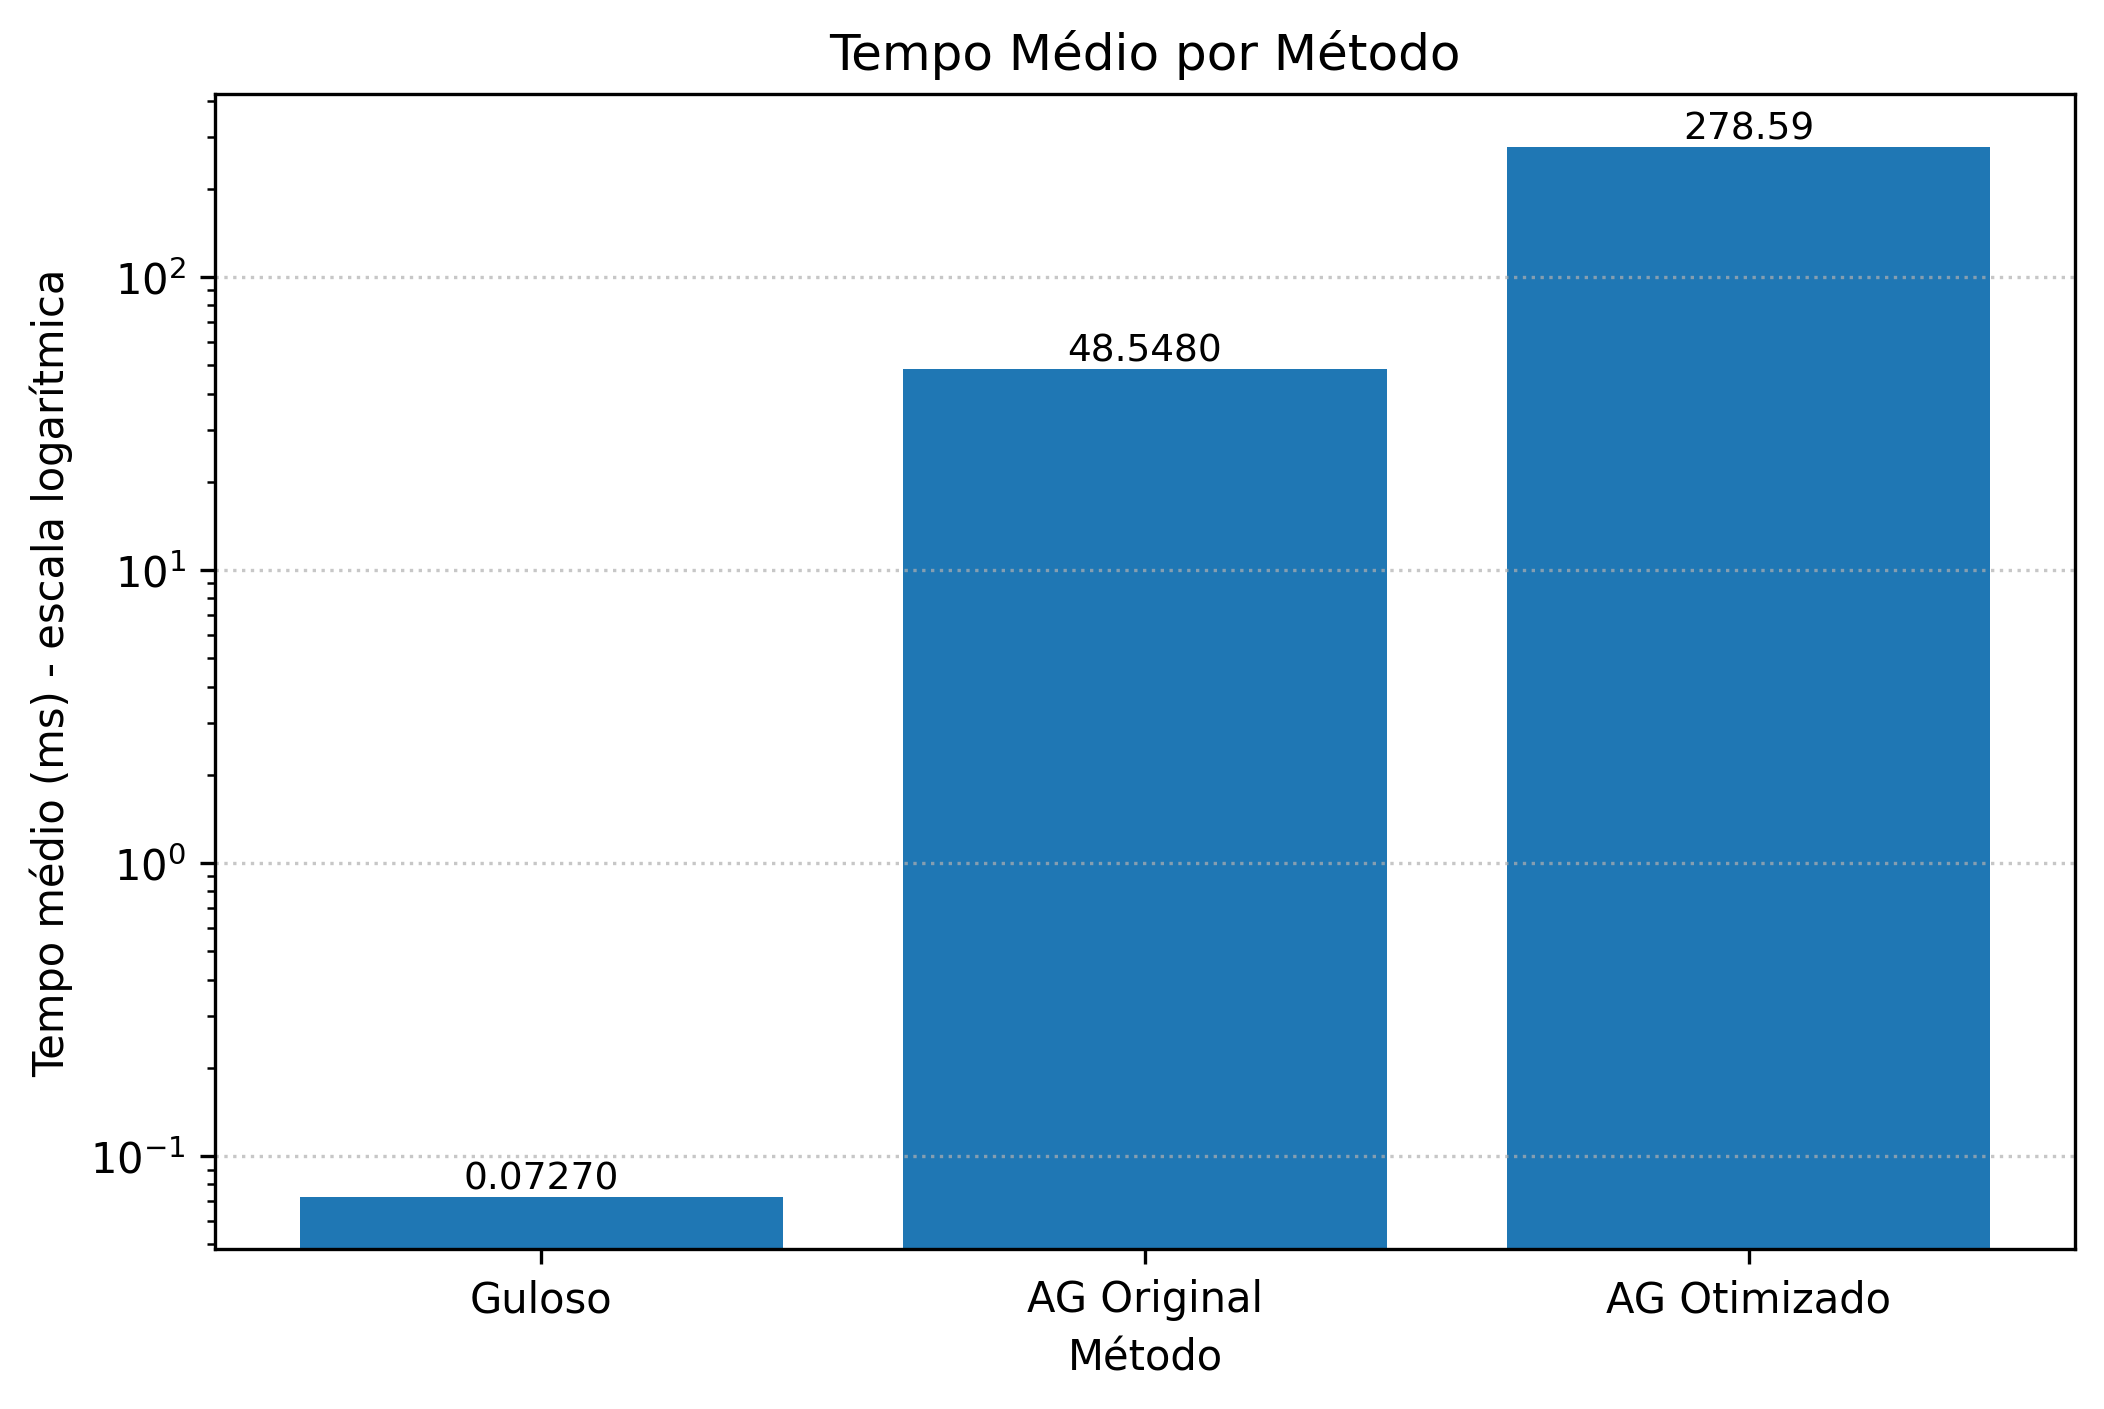
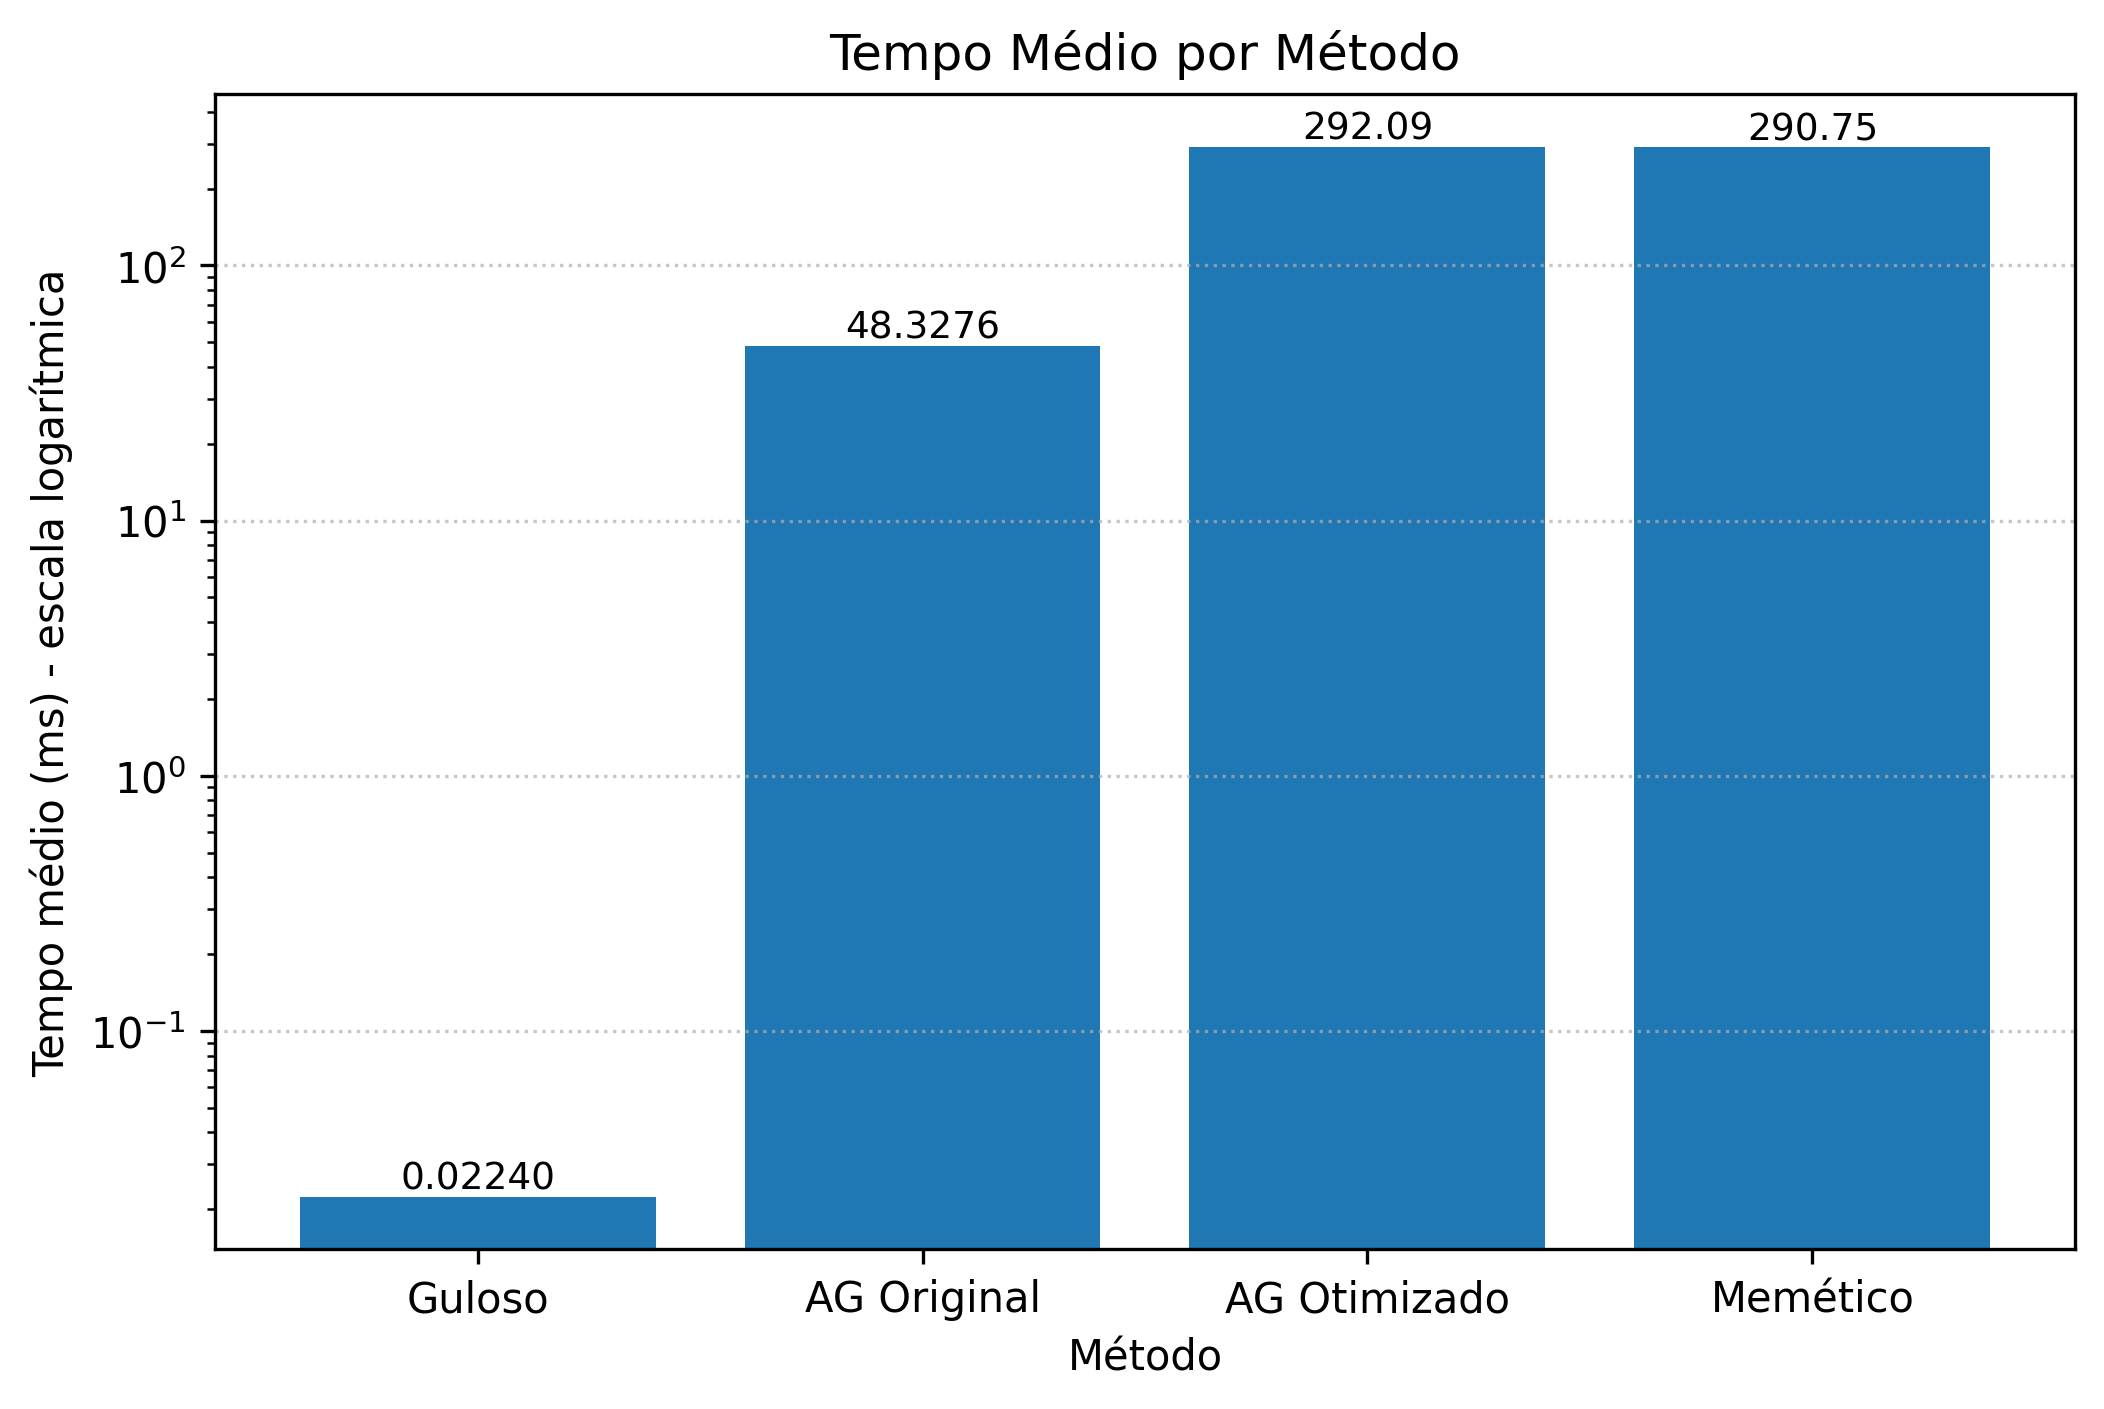
Adiciona algoritmo memetico e atualiza resultados comparativos

diff --git a/src/mochila_ic236ep/memetic.py b/src/mochila_ic236ep/memetic.py
@@ -1,0 +1,101 @@
+from typing import Dict, List, Tuple
+
+from src.mochila_ic236ep.heuristics import heuristica_gulosa
+from src.mochila_ic236ep.metaheuristics import AlgoritmoGenetico
+from src.mochila_ic236ep.models import InstanciaMochila
+
+
+class AlgoritmoMemetico(AlgoritmoGenetico):
+    """
+    Algoritmo Memético para o Problema da Mochila 0-1.
+
+    Esta abordagem combina a Heurística Gulosa com o Algoritmo Genético.
+    A solução gerada pelo guloso é inserida como um indivíduo inicial forte
+    dentro da população inicial do AG.
+    """
+
+    def __init__(
+        self,
+        instancia: InstanciaMochila,
+        tam_populacao: int = 110,
+        geracoes: int = 250,
+        tx_mutacao: float = 0.04912570414720041,
+        tx_crossover: float = 0.8185280449452739,
+        torneio_k: int = 6,
+    ):
+        super().__init__(
+            instancia=instancia,
+            tam_populacao=tam_populacao,
+            geracoes=geracoes,
+            tx_mutacao=tx_mutacao,
+            tx_crossover=tx_crossover,
+            torneio_k=torneio_k,
+        )
+
+    def gerar_populacao_inicial(self) -> List[List[int]]:
+        """
+        Cria a população inicial do Algoritmo Memético.
+
+        O primeiro indivíduo é a solução da Heurística Gulosa.
+        Os demais indivíduos são gerados aleatoriamente.
+        """
+        solucao_gulosa, _, _ = heuristica_gulosa(self.instancia)
+
+        populacao = [solucao_gulosa[:]]
+
+        while len(populacao) < self.tam_populacao:
+            populacao.append(self.criar_individuo())
+
+        return populacao
+
+    def executar(self) -> Tuple[List[int], float, float, Dict[str, List[float]]]:
+        """
+        Executa o Algoritmo Memético.
+
+        Mantém a mesma estrutura de retorno do Algoritmo Genético:
+        solução, valor, peso e histórico.
+        """
+        populacao = self.gerar_populacao_inicial()
+
+        melhor_individuo = None
+        melhor_fitness = -1
+        melhor_peso = 0
+
+        historico = {
+            "melhor": [],
+            "media": [],
+        }
+
+        for _ in range(self.geracoes):
+            avaliacoes = [self.calcular_fitness(ind) for ind in populacao]
+            fitnesses = [av[0] for av in avaliacoes]
+            pesos = [av[1] for av in avaliacoes]
+
+            for i, fit in enumerate(fitnesses):
+                if fit > melhor_fitness and pesos[i] <= self.instancia.capacidade:
+                    melhor_fitness = fit
+                    melhor_peso = pesos[i]
+                    melhor_individuo = populacao[i][:]
+
+            historico["melhor"].append(max(fitnesses))
+            historico["media"].append(sum(fitnesses) / self.tam_populacao)
+
+            nova_populacao = []
+
+            if melhor_individuo:
+                nova_populacao.append(melhor_individuo[:])
+
+            while len(nova_populacao) < self.tam_populacao:
+                pai1 = self.selecao_torneio(populacao, fitnesses)
+                pai2 = self.selecao_torneio(populacao, fitnesses)
+
+                filho1, filho2 = self.crossover(pai1, pai2)
+
+                nova_populacao.append(self.mutacao(filho1))
+
+                if len(nova_populacao) < self.tam_populacao:
+                    nova_populacao.append(self.mutacao(filho2))
+
+            populacao = nova_populacao
+
+        return melhor_individuo, melhor_fitness, melhor_peso, historico

diff --git a/main.py b/main.py
@@ -7,6 +7,7 @@ import matplotlib.pyplot as plt
 from src.mochila_ic236ep.utils import ler_instancia
 from src.mochila_ic236ep.heuristics import heuristica_gulosa
 from src.mochila_ic236ep.metaheuristics import AlgoritmoGenetico
+from src.mochila_ic236ep.memetic import AlgoritmoMemetico
 
 
 CAMINHO_INSTANCIA = "src/mochila_ic236ep/instancia_grande.txt"
@@ -62,6 +63,27 @@ def executar_ag(instancia, parametros, semente=0):
     return solucao, valor, peso, tempo_ms, historico
 
 
+def executar_memetico(instancia, parametros, semente=0):
+    random.seed(semente)
+
+    inicio = time.perf_counter()
+
+    memetico = AlgoritmoMemetico(
+        instancia=instancia,
+        tam_populacao=parametros["tam_populacao"],
+        geracoes=parametros["geracoes"],
+        tx_mutacao=parametros["tx_mutacao"],
+        tx_crossover=parametros["tx_crossover"],
+        torneio_k=parametros["torneio_k"],
+    )
+
+    solucao, valor, peso, historico = memetico.executar()
+
+    tempo_ms = (time.perf_counter() - inicio) * 1000
+
+    return solucao, valor, peso, tempo_ms, historico
+
+
 def imprimir_tabela(resultados):
     print("\n" + "=" * 80)
     print("COMPARATIVO DOS MÉTODOS")
@@ -80,7 +102,11 @@ def imprimir_tabela(resultados):
     print("=" * 80)
 
 
-def gerar_grafico_convergencia(historico_original, historico_otimizado):
+def gerar_grafico_convergencia(
+    historico_original,
+    historico_otimizado,
+    historico_memetico
+):
     os.makedirs(PASTA_RESULTADOS, exist_ok=True)
 
     plt.figure(figsize=(8, 5))
@@ -97,13 +123,23 @@ def gerar_grafico_convergencia(historico_original, historico_otimizado):
         linewidth=2
     )
 
-    plt.title("Curva de Convergência dos Algoritmos Genéticos")
+    plt.plot(
+        historico_memetico["melhor"],
+        label="Memético",
+        linewidth=2
+    )
+
+    plt.title("Curva de Convergência dos Métodos Evolutivos")
     plt.xlabel("Geração")
     plt.ylabel("Melhor fitness")
     plt.legend()
     plt.grid(True, linestyle=":", alpha=0.7)
 
-    caminho_saida = os.path.join(PASTA_RESULTADOS, "convergencia_ag_original_vs_otimizado.png")
+    caminho_saida = os.path.join(
+        PASTA_RESULTADOS,
+        "convergencia_ag_vs_memetico.png"
+    )
+
     plt.savefig(caminho_saida, dpi=300, bbox_inches="tight")
     plt.close()
 
@@ -132,6 +168,13 @@ def executar_comparativo():
         semente=0
     )
 
+    print("Executando Algoritmo Memético...")
+    _, val_memetico, peso_memetico, tempo_memetico, hist_memetico = executar_memetico(
+        instancia,
+        PARAMETROS_AG_OTIMIZADO,
+        semente=0
+    )
+
     resultados = [
         {
             "metodo": "Guloso",
@@ -151,13 +194,20 @@ def executar_comparativo():
             "peso": peso_ag_otimizado,
             "tempo_ms": tempo_ag_otimizado,
         },
+        {
+            "metodo": "Memético",
+            "valor": val_memetico,
+            "peso": peso_memetico,
+            "tempo_ms": tempo_memetico,
+        },
     ]
 
     imprimir_tabela(resultados)
 
     gerar_grafico_convergencia(
         historico_original=hist_ag_original,
-        historico_otimizado=hist_ag_otimizado
+        historico_otimizado=hist_ag_otimizado,
+        historico_memetico=hist_memetico
     )
 
 

diff --git a/src/mochila_ic236ep/gerar_resultados.py b/src/mochila_ic236ep/gerar_resultados.py
@@ -7,6 +7,7 @@ import time
 from src.mochila_ic236ep.utils import ler_instancia
 from src.mochila_ic236ep.heuristics import heuristica_gulosa
 from src.mochila_ic236ep.metaheuristics import AlgoritmoGenetico
+from src.mochila_ic236ep.memetic import AlgoritmoMemetico
 
 
 CAMINHO_INSTANCIA = "src/mochila_ic236ep/instancia_grande.txt"
@@ -58,7 +59,6 @@ def executar_ag(instancia, nome_metodo, parametros, num_execucoes):
     resultados = []
 
     for i in range(num_execucoes):
-        # Define uma semente para deixar o experimento mais reprodutível
         random.seed(i)
 
         inicio = time.perf_counter()
@@ -93,6 +93,50 @@ def executar_ag(instancia, nome_metodo, parametros, num_execucoes):
 
         print(
             f"{nome_metodo} - Execução {i + 1}: "
+            f"valor={valor}, peso={peso}, tempo={tempo_ms:.4f} ms"
+        )
+
+    return resultados
+
+
+def executar_memetico(instancia, parametros, num_execucoes):
+    resultados = []
+
+    for i in range(num_execucoes):
+        random.seed(i)
+
+        inicio = time.perf_counter()
+
+        memetico = AlgoritmoMemetico(
+            instancia=instancia,
+            tam_populacao=parametros["tam_populacao"],
+            geracoes=parametros["geracoes"],
+            tx_mutacao=parametros["tx_mutacao"],
+            tx_crossover=parametros["tx_crossover"],
+            torneio_k=parametros["torneio_k"],
+        )
+
+        _, valor, peso, _ = memetico.executar()
+
+        tempo_ms = (time.perf_counter() - inicio) * 1000
+
+        resultado = {
+            "metodo": "Memético",
+            "execucao": i + 1,
+            "valor": valor,
+            "peso": peso,
+            "tempo_ms": tempo_ms,
+            "tam_populacao": parametros["tam_populacao"],
+            "geracoes": parametros["geracoes"],
+            "tx_mutacao": parametros["tx_mutacao"],
+            "tx_crossover": parametros["tx_crossover"],
+            "torneio_k": parametros["torneio_k"],
+        }
+
+        resultados.append(resultado)
+
+        print(
+            f"Memético - Execução {i + 1}: "
             f"valor={valor}, peso={peso}, tempo={tempo_ms:.4f} ms"
         )
 
@@ -164,6 +208,14 @@ def main():
         num_execucoes=NUM_EXECUCOES,
     )
     todos_resultados.extend(resultados_ag_otimizado)
+
+    print("\nExecutando Algoritmo Memético...")
+    resultados_memetico = executar_memetico(
+        instancia=instancia,
+        parametros=PARAMETROS_AG_OTIMIZADO,
+        num_execucoes=NUM_EXECUCOES,
+    )
+    todos_resultados.extend(resultados_memetico)
 
     caminho_detalhado = os.path.join(PASTA_RESULTADOS, "resultados_detalhados.csv")
     salvar_csv(caminho_detalhado, todos_resultados)
